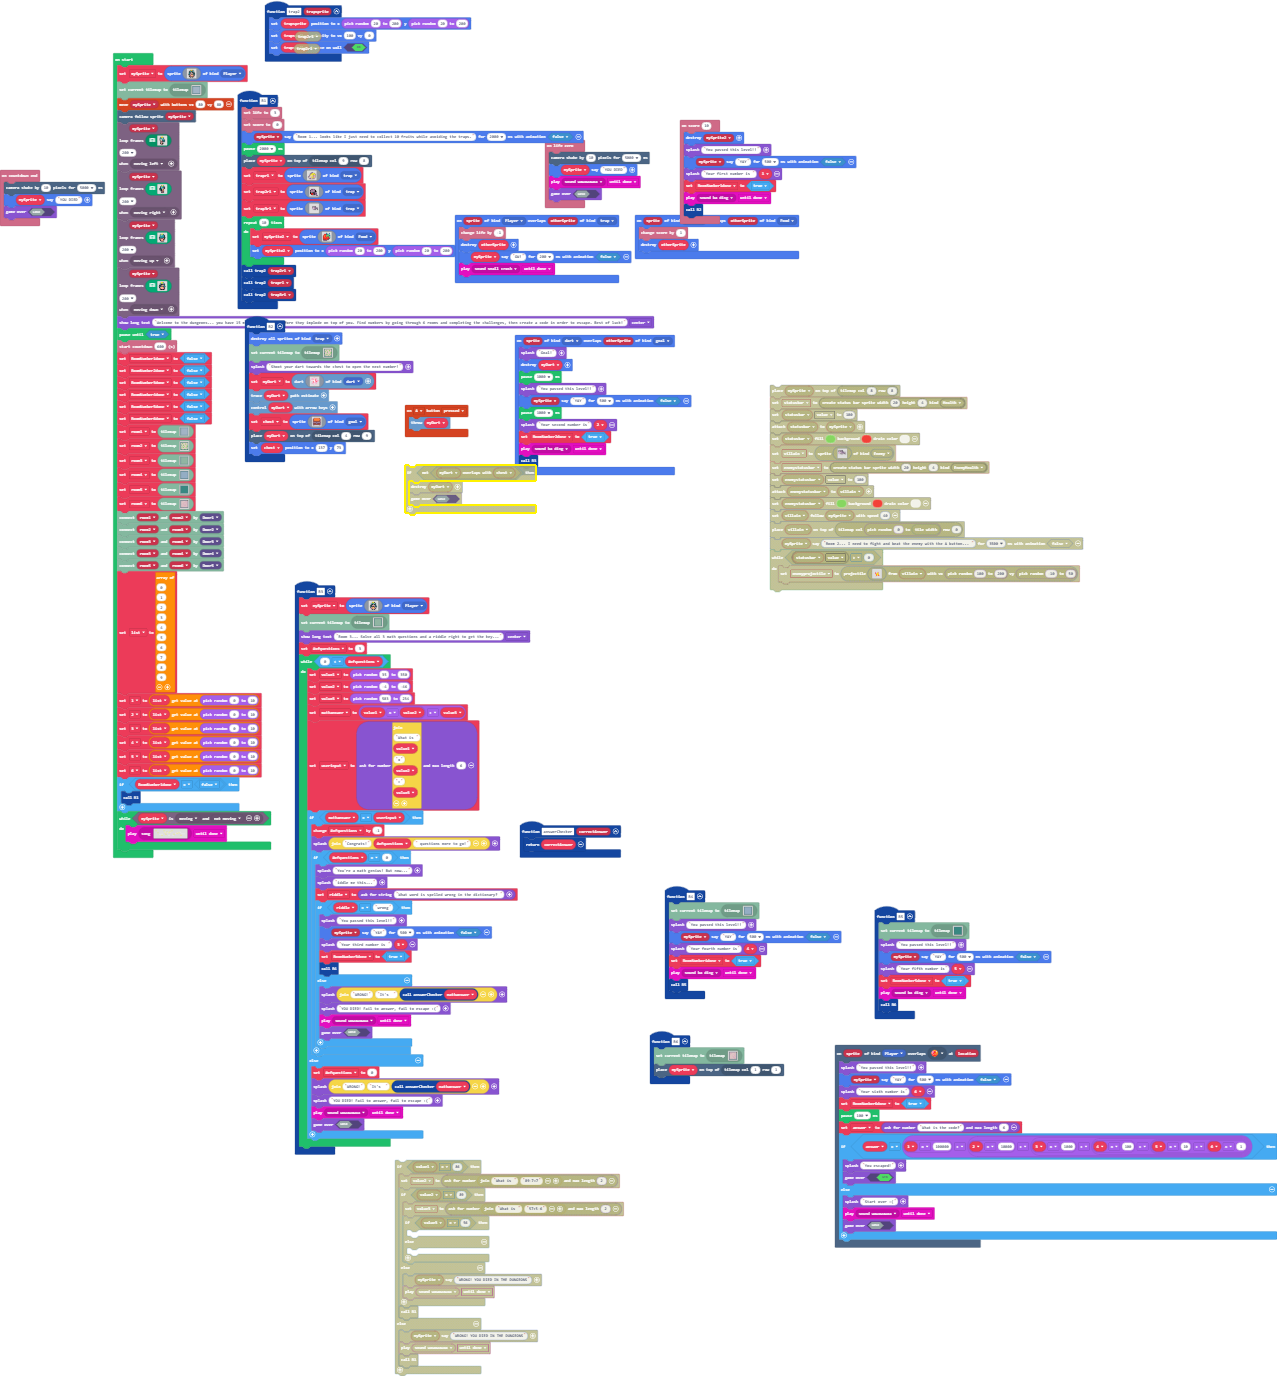
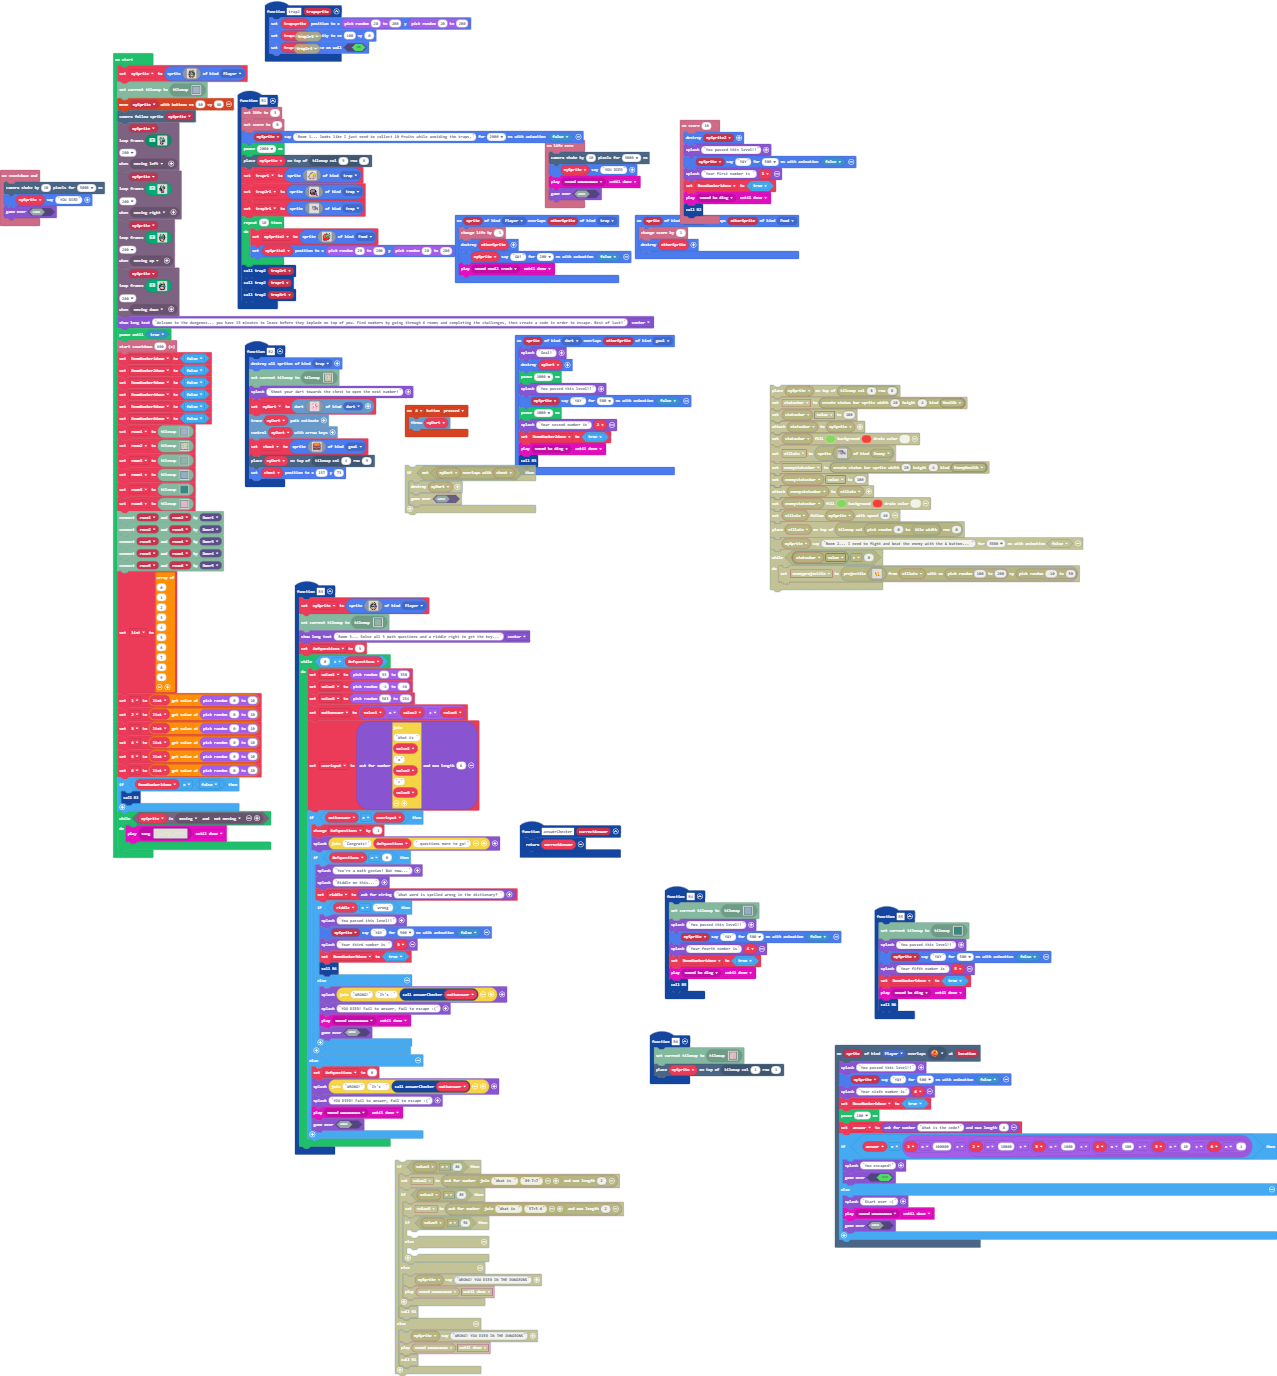
Update main.blocks, main.ts

Changed region(s): [[0.1832, 0.2188, 0.3359, 0.375], [0.3054, 0.3438, 0.4276, 0.375]]

diff --git a/main.ts b/main.ts
@@ -228,7 +228,7 @@ function R3 () {
             game.splash("Congrats!" + ofquestions + " questions more to go!")
             if (ofquestions == 0) {
                 game.splash("You're a math genius! But now...")
-                game.splash("iddle me this...")
+                game.splash("Riddle me this...")
                 riddle = game.askForString("What word is spelled wrong in the dictionary? ")
                 if (riddle == "wrong") {
                     game.splash("You passed this level!!")
